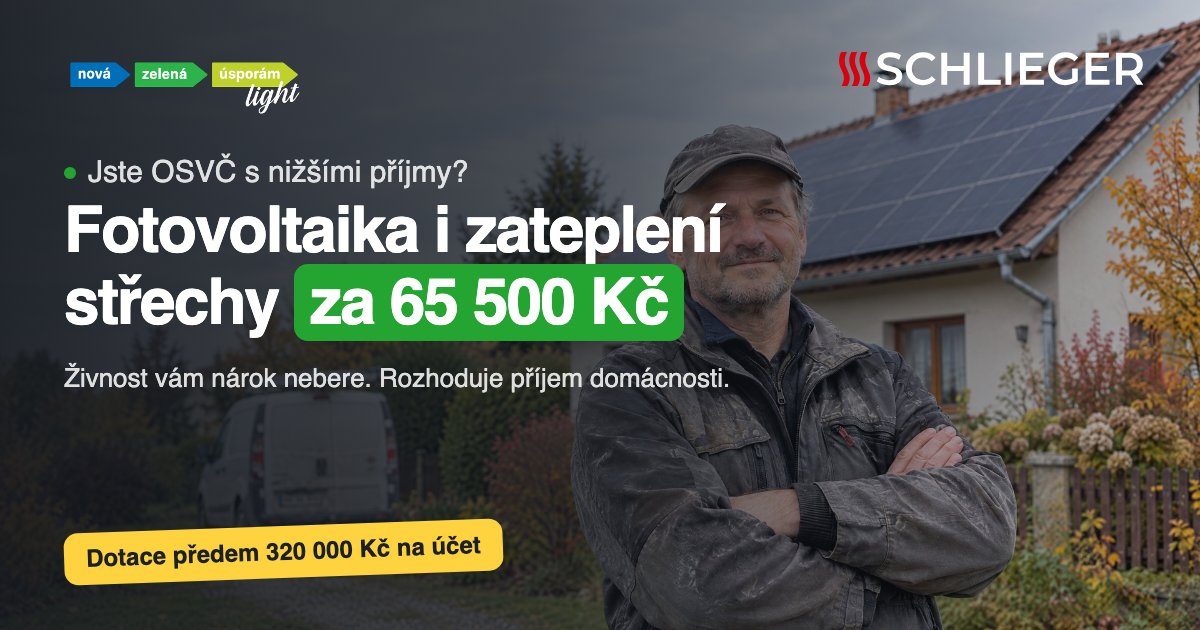
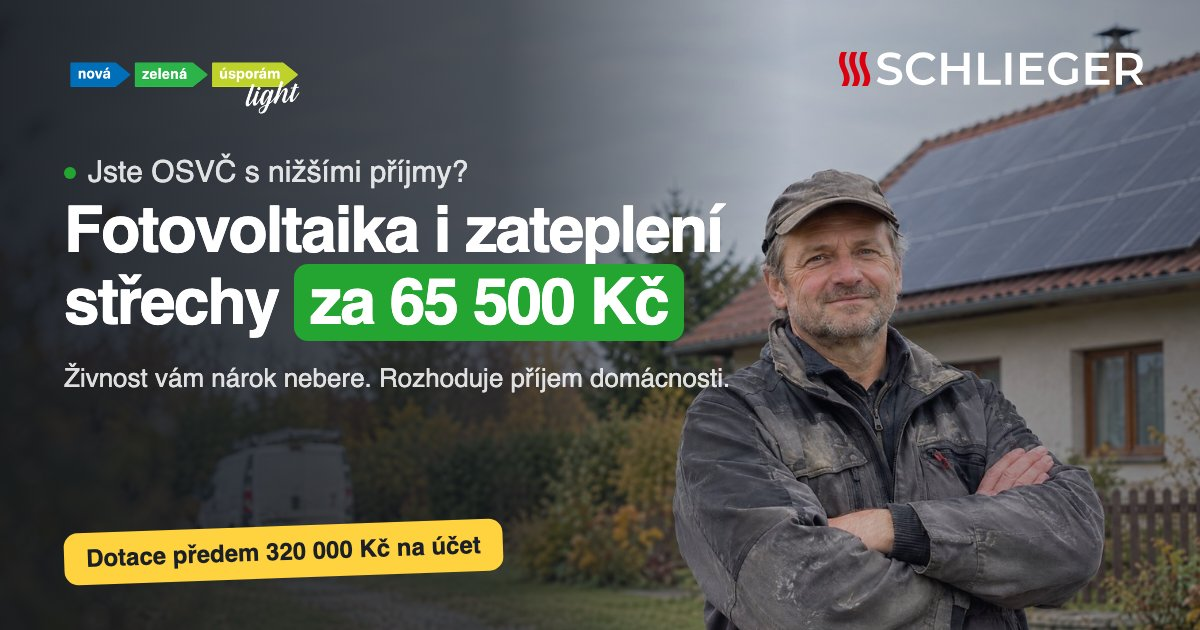
OSVČ LP: hero 100vh bez odkazů v kartě, pán vždy v mezeře mezi textem a kartou (i na širokých displejích), mobil s fotopásem jako hlavní LP, OG s pánem ve volném prostoru, sjednocený padding karty, mobilní kalkulačka s živým výsledkem a mřížkou voleb

diff --git a/osvc.html b/osvc.html
@@ -990,9 +990,20 @@ input[type=range]::-moz-range-thumb{width:26px;height:26px;border-radius:50%;bac
 .ecalc__verdict[data-state=edge]{background:#FFF3D6}.ecalc__verdict[data-state=edge] b{color:#7A5200}
 .ecalc__verdict[data-state=no]{background:var(--paper-2)}.ecalc__verdict[data-state=no] b{color:var(--ink)}
 .ecalc__note{margin-top:12px;font-size:13px;color:var(--ink-3);line-height:1.5}
-@media (max-width:959px){.ecalc__two{grid-template-columns:1fr}.ecalc .calc__live{display:none}.hero__h1a{font-size:.6em}.ecalc .calc__label{flex-wrap:wrap;gap:4px 12px}.ecalc .calc__label output{font-size:30px;white-space:nowrap}.ecalc .calc__presets button{padding:0 13px;font-size:14px}}
-@media (min-width:960px){.ecalc__res{align-self:start;position:sticky;top:96px}.hero__bg{width:114%;max-width:none;left:-14%;object-position:50% 38%}.hero::before{background:linear-gradient(90deg,rgba(18,22,28,.92) 0%,rgba(18,22,28,.7) 36%,rgba(18,22,28,.26) 58%,rgba(18,22,28,.48) 100%)}.hero__in{gap:0 96px}.hero__content{max-width:640px}.hero h1{font-size:clamp(34px,3.6vw,50px);margin-top:26px}.hero__h1b{margin-top:18px}.hero__who{margin-top:26px}.hero__call{margin-top:26px}.trust{margin-top:36px}}
-@media (max-width:959px){.hero__bg{object-position:53% 0%;height:520px}.hero::before{background:linear-gradient(180deg,rgba(18,22,28,.22) 0%,rgba(18,22,28,.3) 40%,rgba(18,22,28,.72) 62%,#12161C 520px)}.hero__in{padding-top:250px}.hero h1{margin-top:16px}.hero__h1a{margin-bottom:12px}.hero__h1b{margin-top:30px}.hero__who{margin-top:16px}.quick{margin-top:14px}}
+@media (max-width:959px){.ecalc__two{grid-template-columns:1fr 1fr;gap:12px}.ecalc .calc__live{display:none}.hero__h1a{font-size:.6em}
+.ecalc .calc__ctrl{padding:18px 14px 14px}.ecalc .calc__label{flex-wrap:wrap;gap:2px 12px;font-size:15px}.ecalc .calc__label output{font-size:26px;white-space:nowrap;margin-left:auto}
+.ecalc .calc__presets{display:grid;gap:6px;margin:10px 0 2px}.ecalc .calc__presets button{padding:0 6px;font-size:13.5px;min-height:42px;white-space:nowrap}
+.ecalc__p5{grid-template-columns:repeat(5,1fr)}.ecalc__p4{grid-template-columns:repeat(4,1fr)}.ecalc__p2{grid-template-columns:1fr 1.4fr}.ecalc__p3{grid-template-columns:1fr 1fr}.ecalc__p3 button:last-child{grid-column:1/-1}
+.ecalc__group{margin-top:18px}.ecalc__q{font-size:15px;margin-bottom:6px}.ecalc__check{padding:9px 12px;font-size:14px}.ecalc input[type=range]{height:40px}
+.ecalc__live{position:sticky;bottom:calc(76px + env(safe-area-inset-bottom));z-index:3;margin-top:16px;background:#fff;border:1px solid var(--line);border-radius:14px;padding:10px 12px;display:flex;align-items:center;justify-content:space-between;gap:12px;box-shadow:0 8px 24px -12px rgba(27,32,40,.35)}
+.ecalc__live>div{display:grid;line-height:1.2}.ecalc__live span{font-size:11.5px;color:var(--ink-3)}.ecalc__live b{font-size:19px;font-weight:600;color:var(--ink);letter-spacing:-.02em;white-space:nowrap}.ecalc__live small{font-size:11.5px;color:var(--ink-3)}
+.ecalc__pill{flex:none;padding:10px 14px;border-radius:999px;font-size:14px;font-weight:600;text-decoration:none;color:var(--green-dark);background:var(--green-soft)}.ecalc__pill[data-state=edge]{background:#FFF3D6;color:#7A5200}.ecalc__pill[data-state=no]{background:var(--paper-2);color:var(--ink)}
+.ecalc__res{padding:16px!important}.ecalc__res .ledger__row{padding:9px 0}.ecalc__res .ledger__row span{font-size:13.5px}.ecalc__verdict{order:-1;margin:0 0 12px}.ecalc__res .btn{margin-top:12px}}
+@media (min-width:960px){.ecalc__live{display:none}}
+@media (min-width:960px) and (max-height:840px){.quick{padding:20px}.quick__h{margin-top:8px}.quick__opts{margin-top:12px;gap:8px}}
+@media (max-width:959px){.quick{padding:16px}.quick__opts{margin-top:14px}.quick__note{margin-top:14px}}
+@media (min-width:960px){.ecalc__res{align-self:start;position:sticky;top:96px}.hero__bg{width:130vw;max-width:none;left:calc(90px - 31.9vw);object-position:50% 36%}.hero::before{background:linear-gradient(90deg,rgba(18,22,28,.92) 0%,rgba(18,22,28,.7) 36%,rgba(18,22,28,.26) 58%,rgba(18,22,28,.48) 100%)}.hero__in{gap:0 96px;padding-top:20px;padding-bottom:20px}.hero__content{max-width:640px}.quick{padding:24px}.quick__opts{margin-top:16px}.trust{margin-top:22px}.hero h1{font-size:clamp(34px,3.6vw,50px);margin-top:26px}.hero__h1b{margin-top:18px}.hero__who{margin-top:26px}.hero__call{margin-top:26px}.trust{margin-top:36px}}
+@media (max-width:959px){.hero__bg{object-position:52% 50%;height:640px}.hero::before{background:linear-gradient(180deg,rgba(18,22,28,.72) 0%,rgba(18,22,28,.4) 30%,rgba(18,22,28,.62) 52%,#12161C 640px)}.hero__in{padding-top:18px}.hero h1{margin-top:16px}.hero__h1a{margin-bottom:12px}.hero__h1b{margin-top:30px}.hero__who{margin-top:16px}.quick{margin-top:14px}}
 </style>
 </head>
 <body>
@@ -1072,10 +1083,6 @@ input[type=range]::-moz-range-thumb{width:26px;height:26px;border-radius:50%;bac
         <button type="button" class="quick__opt" data-quick="Invalidní důchod 3. stupně" data-cta="hero-step-invalidni"><svg width="26" height="26"><use href="#i-shield"/></svg><span><b>Invalidní důchod 3.&nbsp;stupně</b> <small>já nebo někdo z&nbsp;domácnosti</small></span><svg class="quick__arr" width="20" height="20"><use href="#i-arrow"/></svg></button>
         <button type="button" class="quick__opt" data-quick="Superdávka" data-cta="hero-step-superdavka"><svg width="26" height="26"><use href="#i-euro"/></svg><span><b>Pobíráme superdávku</b> <small>dávku státní sociální pomoci</small></span><svg class="quick__arr" width="20" height="20"><use href="#i-arrow"/></svg></button>
       </div>
-      <div class="quick__foot">
-        <button type="button" class="quick__link" data-quick="Nic z toho" data-cta="hero-step-nic">Příjem máme vyšší, chci bezúročný úvěr</button>
-        <button type="button" class="quick__link" data-quick="Nevím" data-cta="hero-step-nevim">Nevím, poraďte mi</button>
-      </div>
       <p class="quick__note">Nezávazně a&nbsp;zdarma. Do 24 hodin zavoláme s&nbsp;výsledkem.</p>
     </aside>
     <ul class="trust" aria-label="Proč Schlieger">
@@ -1125,7 +1132,7 @@ input[type=range]::-moz-range-thumb{width:26px;height:26px;border-radius:50%;bac
     <div class="calc ecalc">
       <div class="calc__ctrl">
         <label class="calc__label" for="e-trzby">Roční příjmy z&nbsp;podnikání <output for="e-trzby" id="e-trzby-out" class="num">800&nbsp;000&nbsp;Kč</output></label>
-        <div class="calc__presets" role="group" aria-label="Rychlá volba příjmů">
+        <div class="calc__presets ecalc__p5" role="group" aria-label="Rychlá volba příjmů">
           <button type="button" data-trzby="300000">300&nbsp;tis.</button><button type="button" data-trzby="500000">500&nbsp;tis.</button><button type="button" data-trzby="800000" class="is-on">800&nbsp;tis.</button><button type="button" data-trzby="1000000">1&nbsp;mil.</button><button type="button" data-trzby="1500000">1,5&nbsp;mil.</button>
         </div>
         <input type="range" id="e-trzby" min="0" max="3000000" step="50000" value="800000" aria-valuetext="800 000 Kč ročně">
@@ -1133,13 +1140,13 @@ input[type=range]::-moz-range-thumb{width:26px;height:26px;border-radius:50%;bac
 
         <div class="ecalc__group">
           <span class="ecalc__q">Bydlí s&nbsp;vámi partner/ka?</span>
-          <div class="calc__presets" role="group" aria-label="Partner">
+          <div class="calc__presets ecalc__p2" role="group" aria-label="Partner">
             <button type="button" data-partner="1" class="is-on">Ano</button><button type="button" data-partner="0">Ne, žiju sám/sama</button>
           </div>
         </div>
         <div class="ecalc__group" id="e-partner-wrap">
           <label class="calc__label calc__label--sm" for="e-partner">Čistý měsíční příjem partnera/ky <output for="e-partner" id="e-partner-out" class="num">25&nbsp;000&nbsp;Kč</output></label>
-          <div class="calc__presets" role="group" aria-label="Rychlá volba příjmu partnera">
+          <div class="calc__presets ecalc__p4" role="group" aria-label="Rychlá volba příjmu partnera">
             <button type="button" data-pi="0">0&nbsp;Kč</button><button type="button" data-pi="15000">15&nbsp;tis.</button><button type="button" data-pi="25000" class="is-on">25&nbsp;tis.</button><button type="button" data-pi="35000">35&nbsp;tis.</button>
           </div>
           <input type="range" id="e-partner" min="0" max="80000" step="1000" value="25000" aria-valuetext="25 000 Kč měsíčně">
@@ -1149,11 +1156,11 @@ input[type=range]::-moz-range-thumb{width:26px;height:26px;border-radius:50%;bac
         <div class="ecalc__two">
           <div class="ecalc__group">
             <span class="ecalc__q">Děti do 13&nbsp;let</span>
-            <div class="calc__presets" role="group" aria-label="Děti do 13 let"><button type="button" data-k1="0" class="is-on">0</button><button type="button" data-k1="1">1</button><button type="button" data-k1="2">2</button><button type="button" data-k1="3">3+</button></div>
+            <div class="calc__presets ecalc__p4" role="group" aria-label="Děti do 13 let"><button type="button" data-k1="0" class="is-on">0</button><button type="button" data-k1="1">1</button><button type="button" data-k1="2">2</button><button type="button" data-k1="3">3+</button></div>
           </div>
           <div class="ecalc__group">
-            <span class="ecalc__q">Další osoby 14+ (děti, rodiče)</span>
-            <div class="calc__presets" role="group" aria-label="Další osoby"><button type="button" data-k2="0" class="is-on">0</button><button type="button" data-k2="1">1</button><button type="button" data-k2="2">2</button><button type="button" data-k2="3">3+</button></div>
+            <span class="ecalc__q">Další osoby 14+</span>
+            <div class="calc__presets ecalc__p4" role="group" aria-label="Další osoby"><button type="button" data-k2="0" class="is-on">0</button><button type="button" data-k2="1">1</button><button type="button" data-k2="2">2</button><button type="button" data-k2="3">3+</button></div>
           </div>
         </div>
 
@@ -1168,9 +1175,13 @@ input[type=range]::-moz-range-thumb{width:26px;height:26px;border-radius:50%;bac
 
         <div class="ecalc__group">
           <span class="ecalc__q">Jaký je váš dům?</span>
-          <div class="calc__presets" role="group" aria-label="Stav domu">
+          <div class="calc__presets ecalc__p3" role="group" aria-label="Stav domu">
             <button type="button" data-dum="stary" class="is-on">Starší, bez zateplení</button><button type="button" data-dum="novy">Zateplený nebo nový</button><button type="button" data-dum="nevim">Nevím</button>
           </div>
+        </div>
+        <div class="ecalc__live" aria-live="polite">
+          <div><span>Příjem na osobu</span><b id="e-eq-m">≈ 0&nbsp;Kč</b><small>hranice <span id="e-limit-m">25&nbsp;426&nbsp;Kč</span></small></div>
+          <a href="#e-verdict" class="ecalc__pill" id="e-pill" data-state="ok">Nárok ✓</a>
         </div>
         <p class="calc__foot">Orientační výpočet podle podmínek NZÚ Light 2026 (3.&nbsp;decil 25&nbsp;426&nbsp;Kč, 5.&nbsp;decil 31&nbsp;058&nbsp;Kč na osobu; váhy 1&nbsp;/&nbsp;0,5&nbsp;/&nbsp;0,3). O&nbsp;nároku rozhoduje Státní fond životního prostředí ČR.</p>
       </div>
@@ -1750,6 +1761,7 @@ input[type=range]::-moz-range-thumb{width:26px;height:26px;border-radius:50%;bac
       else if (eq <= lim * 1.15) { state = 'edge'; h = 'Jste těsně nad hranicí, spočítáme to přesně'; t = 'Paušálních 70 % je jen odhad. Z daňového přiznání a skutečně zaplaceného pojistného může příjem vyjít níž. Zavoláme a řekneme na rovinu.'; }
       else { state = 'no'; h = 'Na dotaci předem pravděpodobně nedosáhnete'; t = 'Stát vám ale na stejnou realizaci nabízí bezúročný úvěr až 400 000 Kč, úroky platí stát. Spočítáme vám obě varianty.'; }
       var v = $('#e-verdict'); v.setAttribute('data-state', state); $('#e-verdict-h').textContent = h; $('#e-verdict-t').textContent = t;
+      var pm = $('#e-pill'); if (pm) { pm.setAttribute('data-state', state); pm.textContent = state === 'ok' ? 'Nárok ✓' : state === 'edge' ? 'Na hraně' : 'Úvěr 0 %'; $('#e-eq-m').textContent = '≈ ' + fmtK(eq); $('#e-limit-m').textContent = fmtK(lim); }
       $('#e-cta').firstChild.textContent = state === 'no' ? 'Spočítat bezúročný úvěr ' : 'Ověřit nárok přesně a zdarma ';
       lastElig = { trzby: trzby, partner: pinc, k1: st.k1, k2: st.k2, dum: st.dum, sup: sup, duchod: duchod, id3: id3, net: Math.round(net), eq: Math.round(eq), lim: lim, state: state,
         txt: 'tržby ' + fmtK(trzby) + ', partner ' + fmtK(pinc) + ', děti<13: ' + st.k1 + ', osoby 14+: ' + st.k2 + ', dům: ' + st.dum + (sup ? ', superdávka' : '') + (duchod ? ', důchodci' : '') + (id3 ? ', ID3' : '') + ' → příjem/os. ' + fmtK(eq) + ' vs ' + fmtK(lim) + ' → ' + state };
